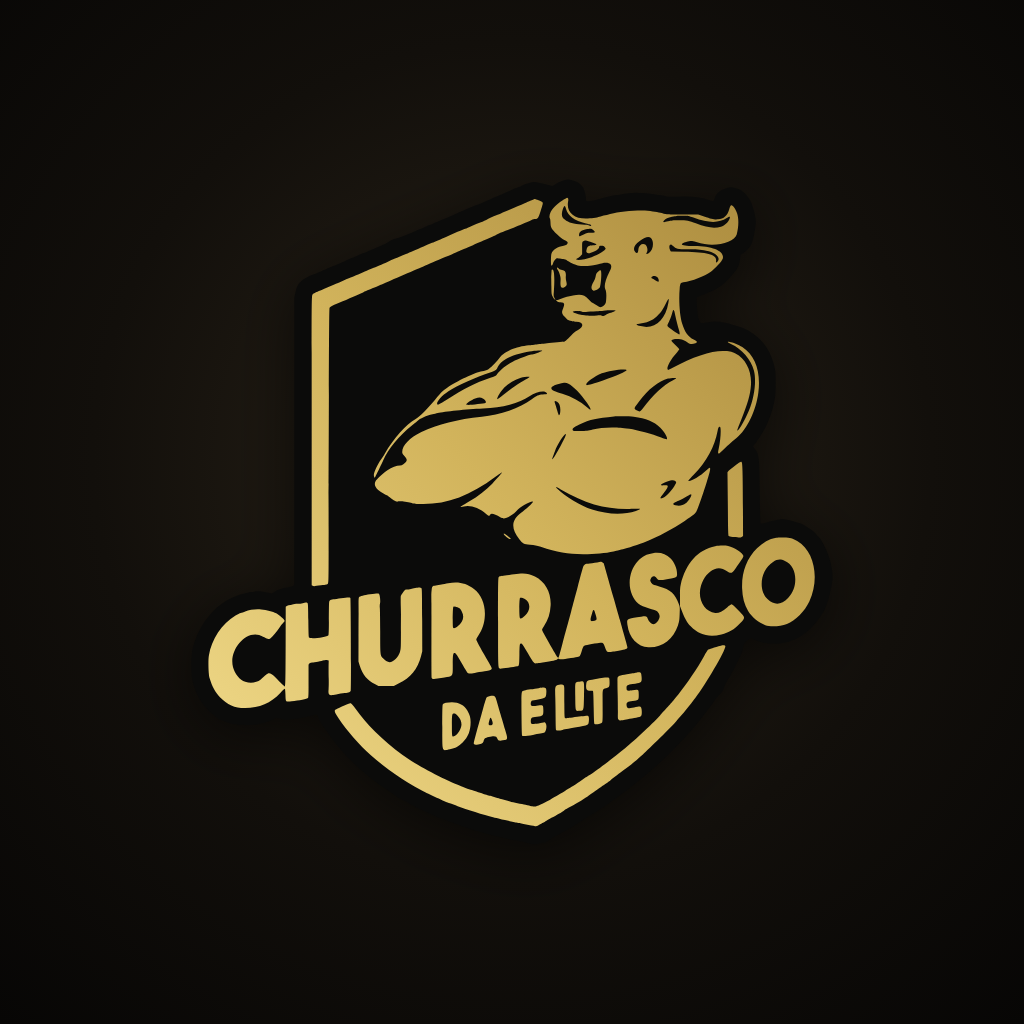
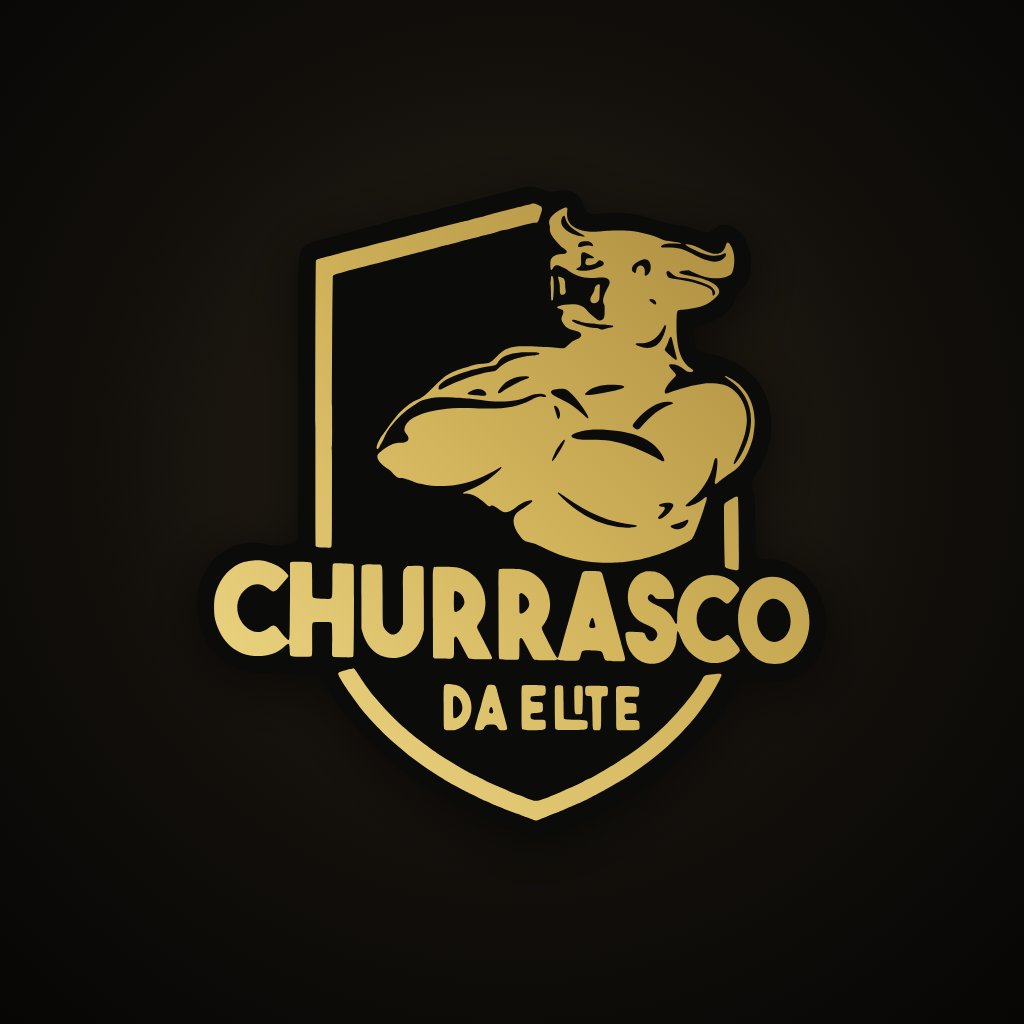
chore(vault): backup 2026-11-18 15:29:39

Changed region(s): [[0.1875, 0.1875, 0.8125, 0.8125]]

diff --git a/04-clientes/churrascodaelite/marca/marca.md b/04-clientes/churrascodaelite/marca/marca.md
@@ -8,12 +8,14 @@ autor: claude
 
 Logo vetorizada em 18/11 a partir da versão dourada que está no site do Lucas (`churrascodaelite.pt`, arquivo `Logo_Churrasco_da_elite_DOURADA_2.png`, 1276x1276, guardado aqui como `logo-original-site.png`). Não é o arquivo do designer: é traçado (potrace), fiel no desenho, mas sem a textura de folha de ouro do original.
 
+**A versão do site é um mockup inclinado** (o texto sobe cerca de 10° para a direita). A primeira vetorização saiu assim e o Guilherme achou torta. Na refeita, também em 18/11, a imagem foi desinclinada antes do traçado (cisalhamento vertical de 0,17, medido na base de "DA ELITE") e as bordas foram suavizadas para tirar a ondulação da textura. Agora o texto fica reto, como na logo das artes do Lucas.
+
 | Arquivo | O que é | Uso |
 |---|---|---|
 | `logo-churrascodaelite.svg` | Escudo preto com o desenho em degradê dourado | Padrão, qualquer fundo |
 | `logo-churrascodaelite-ouro.svg` | Só o desenho, dourado chapado `#D2B45C`, sem o escudo | Fundo escuro |
 | `logo-churrascodaelite-branca.svg` | Só o desenho, branco | Fundo escuro, marca d'água em vídeo |
-| `logo-churrascodaelite.png` | A padrão em PNG transparente, 1552x1608 | Onde não aceita SVG |
+| `logo-churrascodaelite.png` | A padrão em PNG transparente, 2307x2381 | Onde não aceita SVG |
 | `perfil-grupo-operacional.png` | Logo sobre fundo escuro, 1024x1024, cabe no círculo | Foto do grupo "Churrasco da Elite - Tráfego" |
 | `perfil-grupo-black-week.png` | Arte do Lucas com "BLACK WEEK" no lugar de "BLACK FRYDER", sem os 4 cards, enquadrada no círculo | Foto do grupo da promoção |
 

diff --git a/04-clientes/churrascodaelite/log.md b/04-clientes/churrascodaelite/log.md
@@ -15,6 +15,7 @@ Formato:
 ### 2026-11-18 · Logo vetorizada e fotos dos grupos
 - **O que:** vetorizei a logo dourada do site do Lucas (SVG completo, só ouro e branco, PNG transparente). Ajustei a arte do grupo da promoção: "BLACK FRYDER" virou "BLACK WEEK" (nome que o Lucas usa), saíram os 4 cards e a arte foi enquadrada no círculo do WhatsApp
 - **Resultado em:** [[marca/marca]]
+- **Refeita:** a primeira saiu torta, porque a logo do site é um mockup inclinado. Desinclinei antes de traçar e suavizei as bordas
 - **Próximo passo:** o Guilherme põe `perfil-grupo-operacional.png` no grupo "Churrasco da Elite - Tráfego" e a arte Black Week no grupo da promoção
 
 ### 2026-11-18 · Lista de espera no ar
